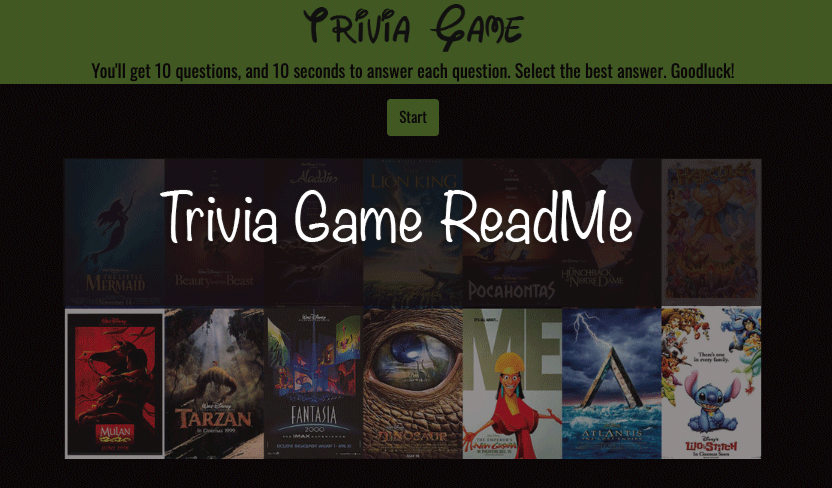
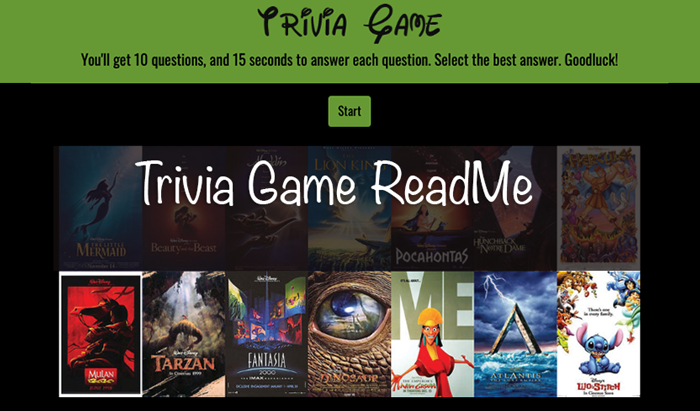
readme update

diff --git a/index.html b/index.html
@@ -21,7 +21,7 @@
         <div class="row">
           <div class="col-sm">
             <img class="masthead-brand" src="assets/images/game_logo.png" alt="logo">
-            <div id="gameInstructions">You'll get 10 questions, and 10 seconds to answer each question. Select the best answer. Goodluck!
+            <div id="gameInstructions">You'll get 10 questions, and 15 seconds to answer each question. Select the best answer. Goodluck!
             </div>
             <div id="time-left"></div>
           </div>

diff --git a/README.md b/README.md
@@ -1,34 +1,31 @@
-![GitHub Logo](/assets/images/readMe_trivia.png)
+![GitHub Logo](/assets/images/readMe_triva.png)
 
-# Ready for Trivia?
-
-#### What type of Trivia Game?
-Let's test your Disney knowledge!
+# Ready for Disney Trivia?
 
 #### How is it used?
-Select start to begin game. You'll have 15 seconds to answer each question!
+Test your Disney knowledge by playing this short game! You'll have 15 seconds to answer each question. Play until you get all ten questions correct!
+
+### How to get started?
+Read the instructions below and [Click here to access Trivia Game](https://b3nitajo.github.io/TriviaGame/)
+
+
+#### Game Instructions
+Step 1: Click the **Start** button.
+
+Step 2: Read the question and select the correct answer.
+![GitHub Logo](/assets/images/readMe_questions.png)
+
+Step 3: Score will appear at end of game. Select Restart to play again.
+![GitHub Logo](/assets/images/readMe_score.png)
 
 #### Special Features
-* Search for as many gifs as you want.
-* Searchable topic can be selected anytime to reload related gifs to top of list.
-* Reload page to clear past searched topis and start new gif search series. 
-
-#### Icebox Features
-* Ability to customize gifs by adding text.
-* Ability to save Giphy results.
-* Mobile App release.
-
+* The questions can easily be changed by updating the game's object properties.
+* The time allowed to answer each question can easily be updated by extending the counter function.
+ 
 #### Technologies Used
 * Bootstrap.css
 * JavaScript
-* jQuery
-* AJAX
-* Giphy API
-
-#### How to get started?
-Visit the link below and enter a topic to create a button to search the Giphy database. Select any button to begin searching.
-
-[Cultivate Giphy](https://b3nitajo.github.io/GifTastic/)
+* HTML
 
 #### Contributors
-* **Benita**: _Maintainer, Full Stack Developer_
+* **Benita**: _Maintainer, Developer_
